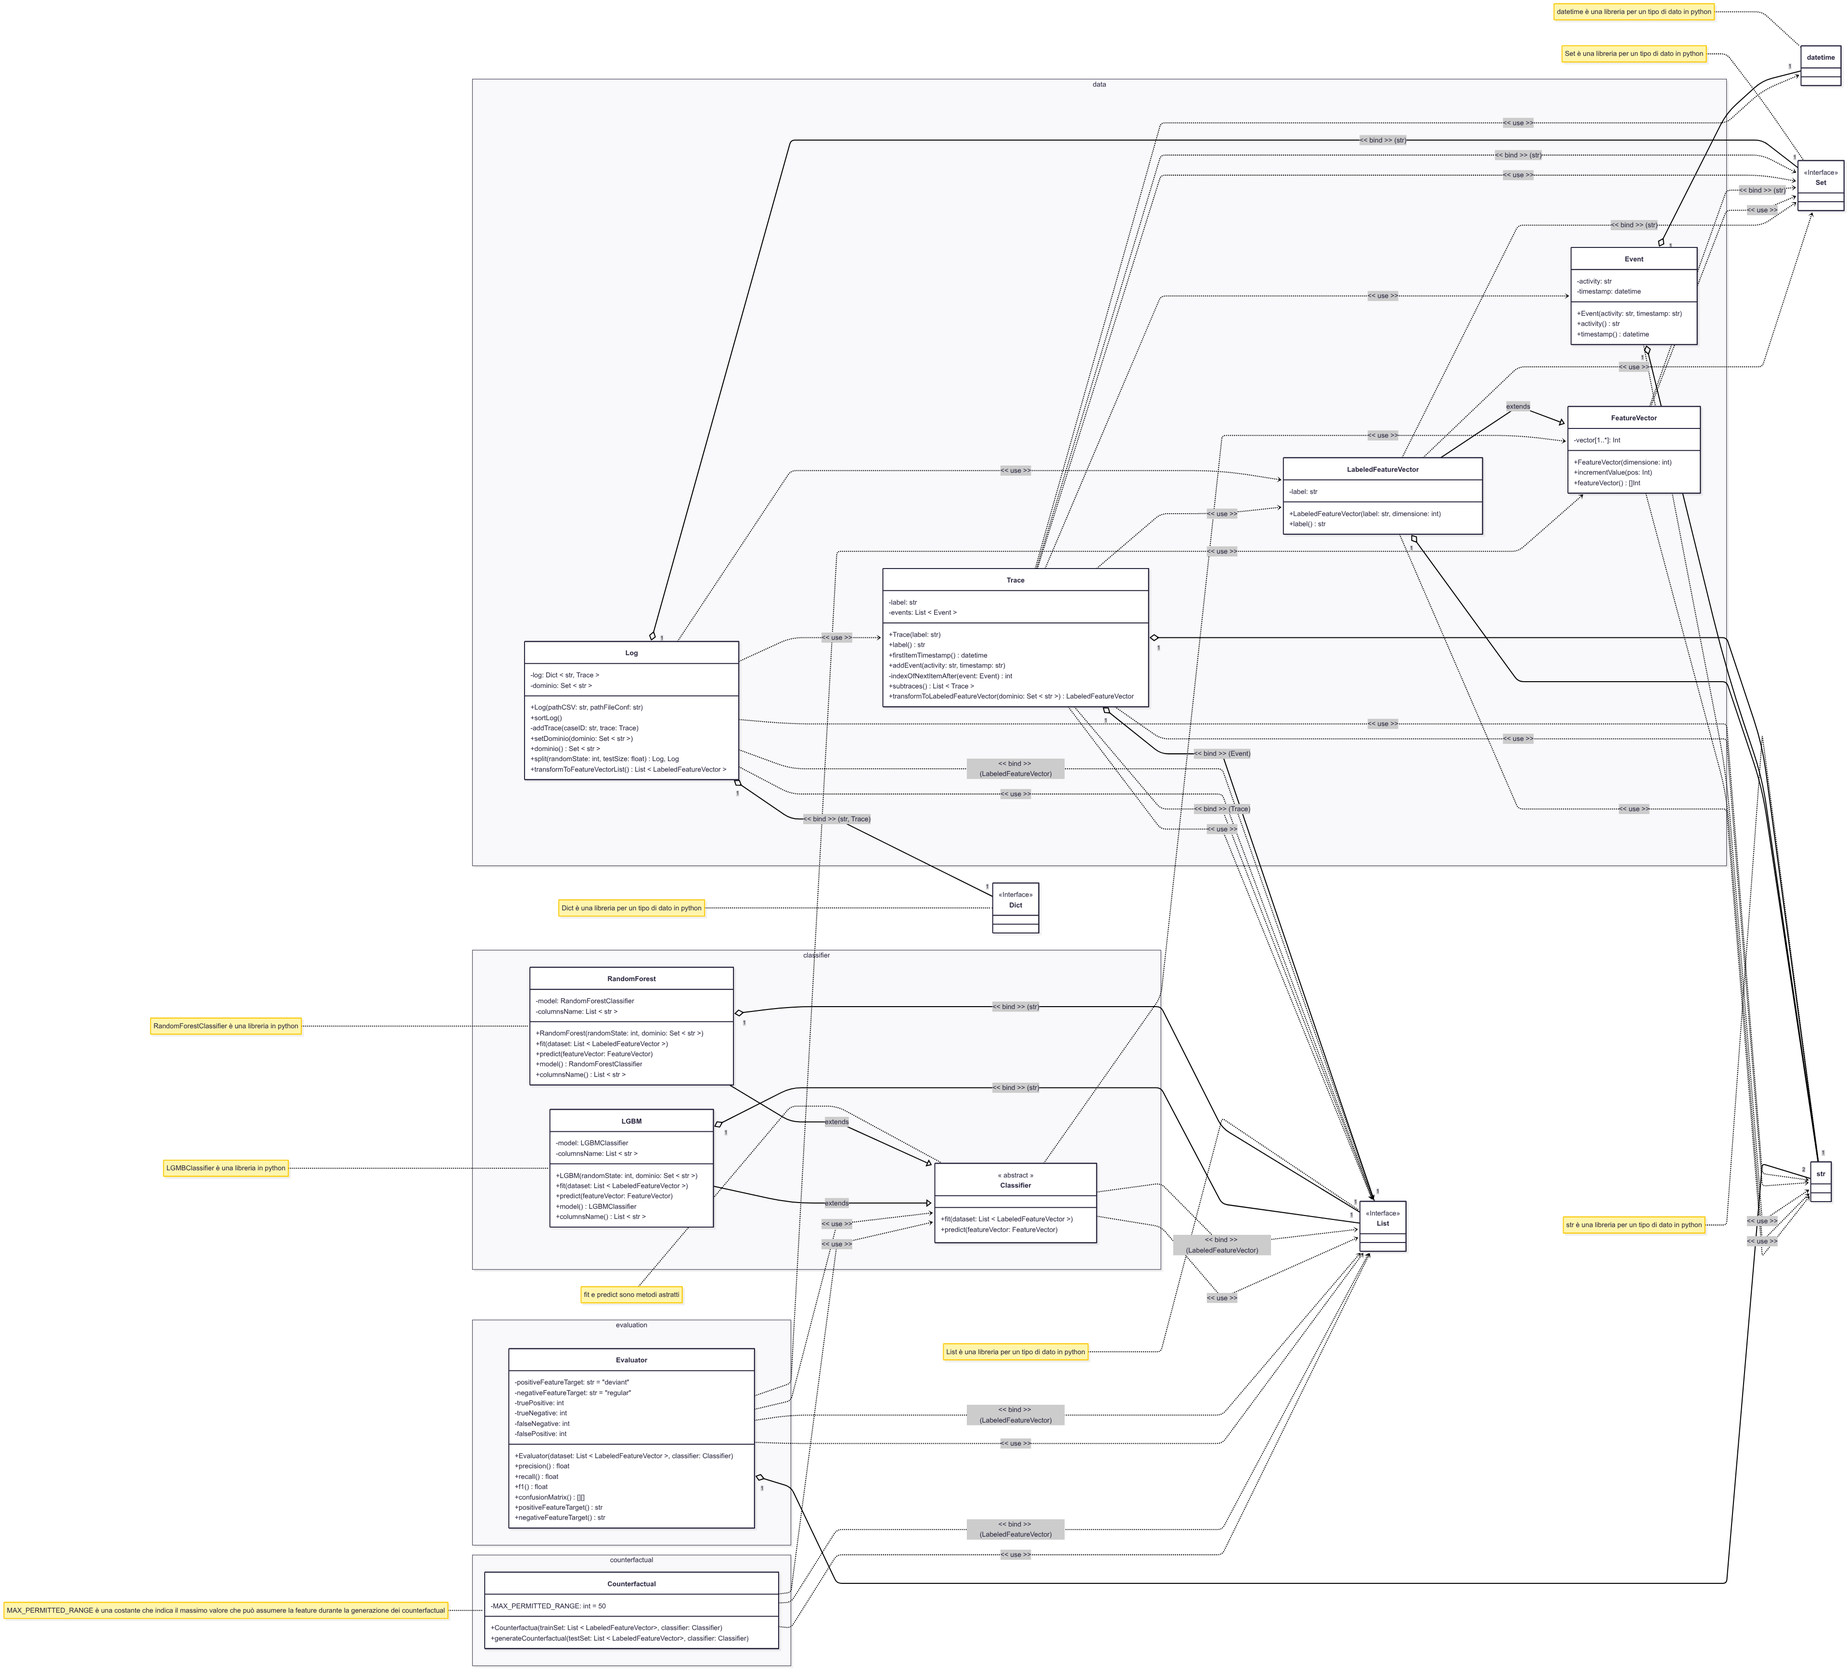
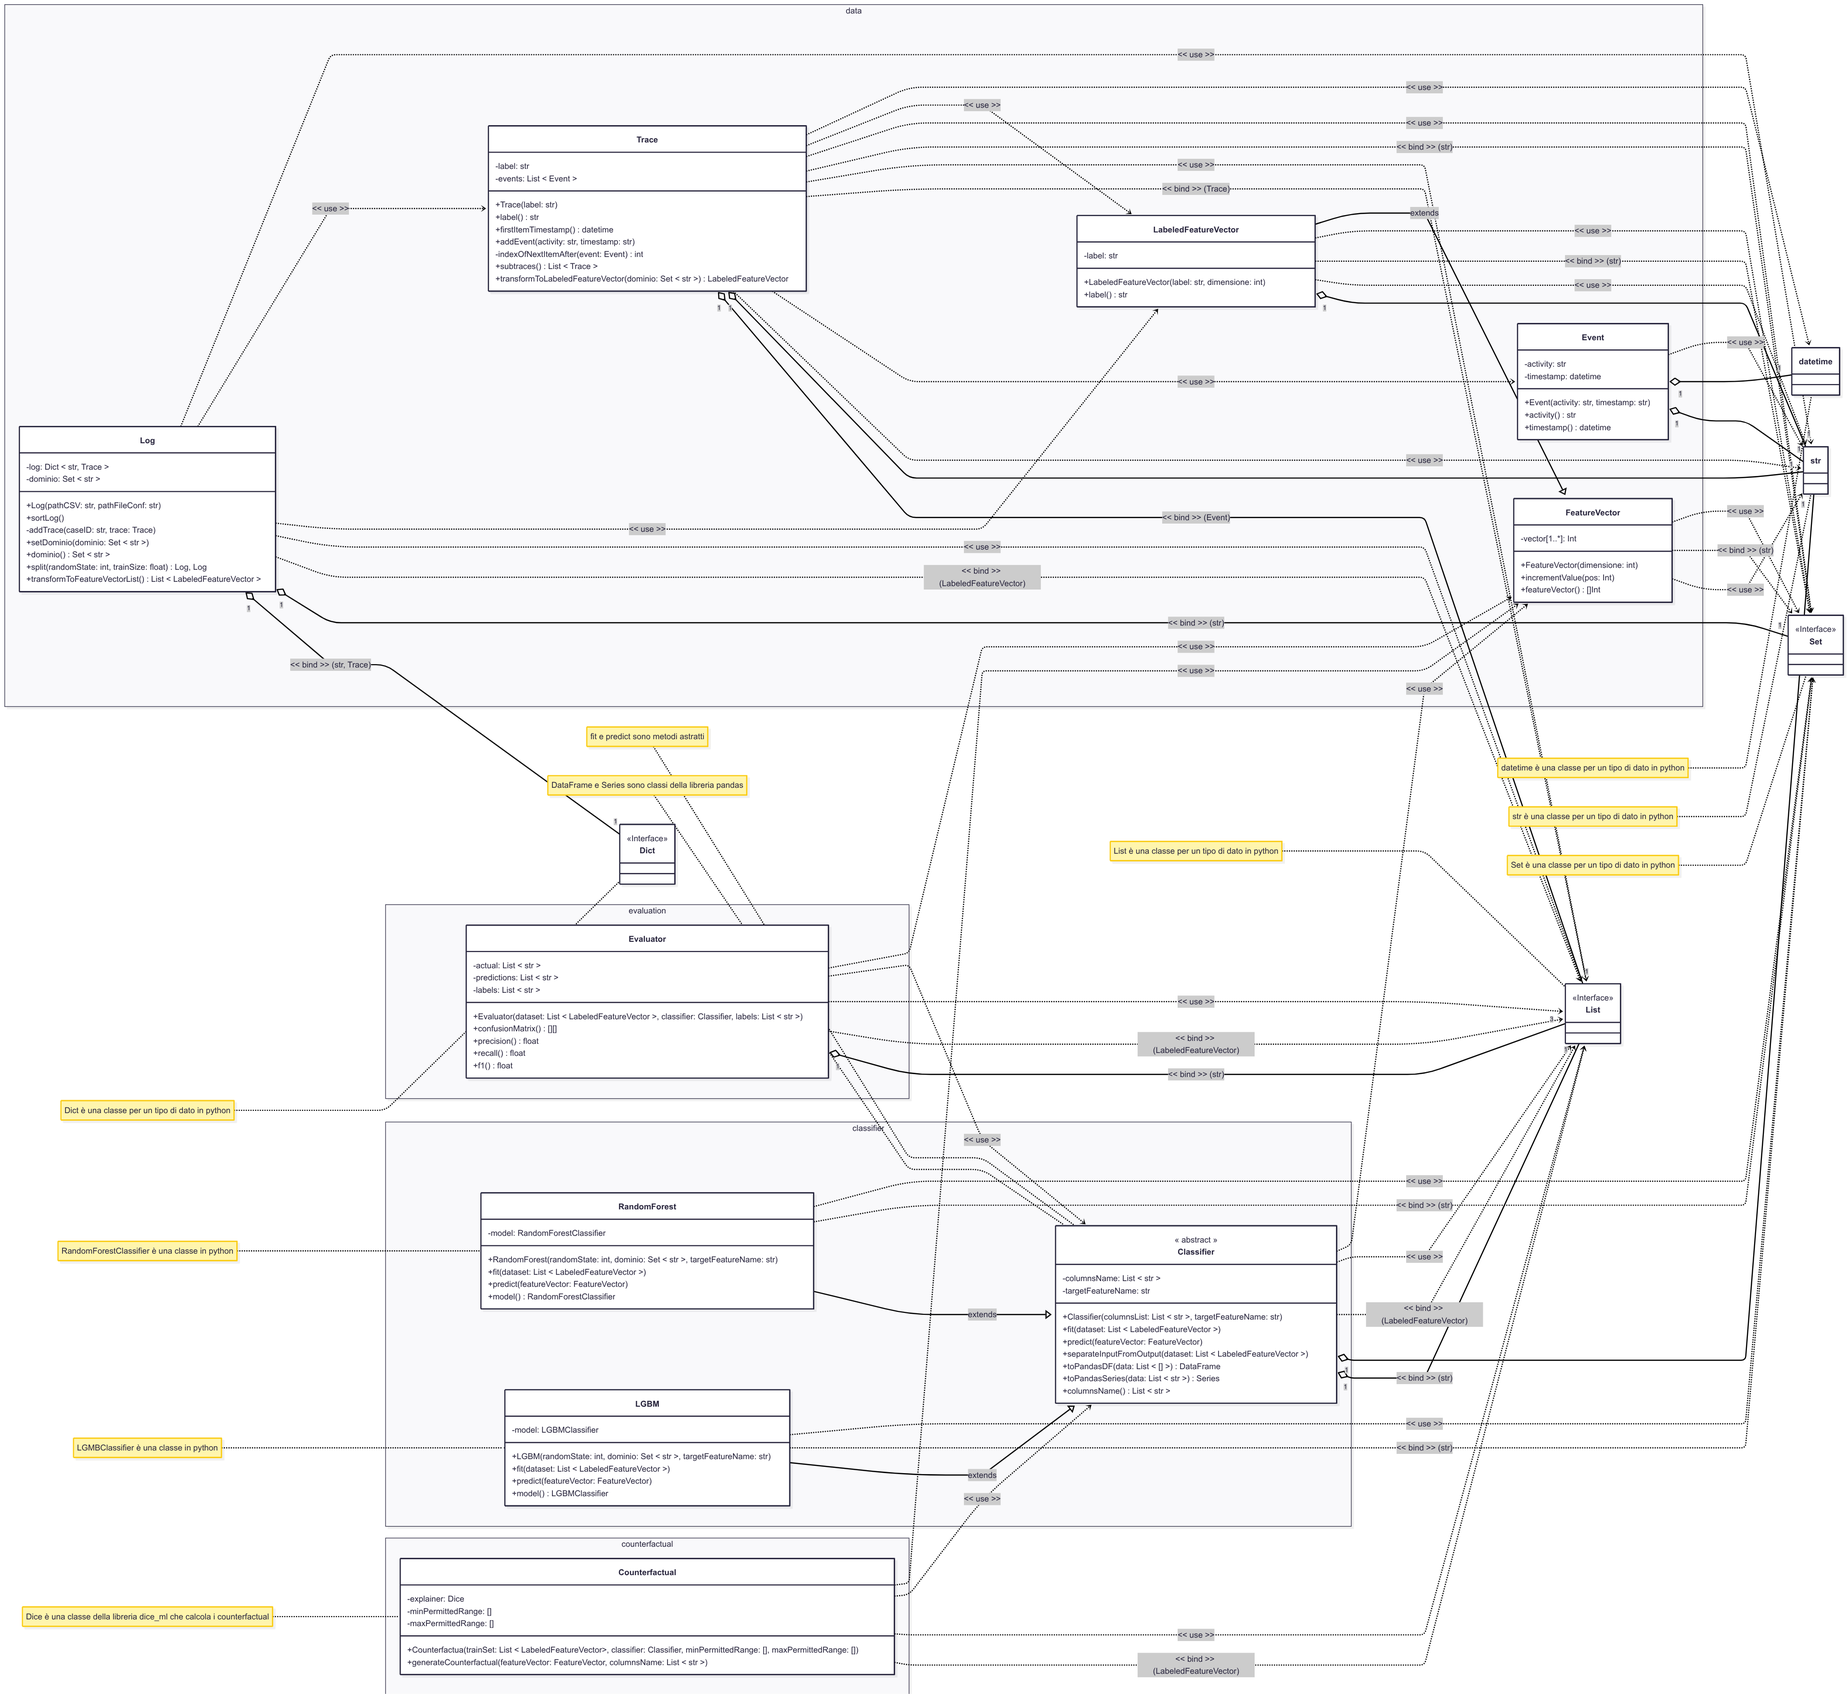
modifiche

diff --git a/counterfactual/counterfactual.py b/counterfactual/counterfactual.py
@@ -4,18 +4,19 @@ import pandas as pd
 from sklearn.preprocessing import LabelEncoder
 
 class Counterfactual:
-    def __init__(self, trainSet, classifier):
+    def __init__(self, trainSet, classifier, minPermittedRange, maxPermittedRange):
+        self._minPermittedRange = minPermittedRange
+        self._maxPermittedRange = maxPermittedRange
         le = LabelEncoder()
-        self._MAX_PERMITTED_RANGE = 50
         x, y = classifier.separateInputFromOutput(trainSet)
         yEncoded = le.fit_transform(y)
-        xdf = pd.DataFrame(x, columns = classifier.columnsName())
-        ys = pd.Series(yEncoded, name = "Label")
+        xdf = classifier.toPandasDF(x)
+        ys = classifier.toPandasSeries(yEncoded)
         dfForDice = pd.concat([xdf, ys], axis = 1)
         diceData = dice_ml.Data(
             dataframe = dfForDice,
             continuous_features = classifier.columnsName(),
-            outcome_name = 'Label'
+            outcome_name = classifier.targetFeatureName()
         )
         model = dice_ml.Model(
             model = classifier.model(),
@@ -23,33 +24,23 @@ class Counterfactual:
         )
         self._exp = dice_ml.Dice(diceData, model, method = 'random')
 
-    def generateCounterfactual(self, testSet, classifier, pathOut, numExamplesToOutput = None):
-        x, y = classifier.separateInputFromOutput(testSet)
-        xdf = pd.DataFrame(x, columns = classifier.columnsName())
-        if numExamplesToOutput is not None:
-            xdf = xdf.head(numExamplesToOutput)
-        allCfsDataframe = []
-        for i in range(len(xdf)):
-            queryInstance = xdf.iloc[i : i + 1] # Estrae una singola riga come DataFrame (formato richiesto da DiCE)
-            currentPermittedRange = {}
-            for feature in classifier.columnsName():
-                currentValue = queryInstance[feature].iloc[0]
-                currentPermittedRange[feature] = [currentValue, self._MAX_PERMITTED_RANGE]
-            cf = self._exp.generate_counterfactuals(
-                queryInstance,
-                total_CFs = 2,
-                desired_class = 'opposite',
-                features_to_vary = classifier.columnsName(),
-                permitted_range = currentPermittedRange
-            )
-            cfDataframe = cf.cf_examples_list[0].final_cfs_df
-            cfDataframe['Type'] = 'Counterfactual'
-            cfDataframe['Query_ID'] = i
-            originalInstanceDf = cf.cf_examples_list[0].test_instance_df
-            originalInstanceDf['Type'] = 'Original'
-            originalInstanceDf['Query_ID'] = i
-            combinedDf = pd.concat([originalInstanceDf, cfDataframe])
-            allCfsDataframe.append(combinedDf)
-        
-        dfToExport = pd.concat(allCfsDataframe, ignore_index = True)
+    def generateCounterfactual(self, featureVector, columnsName, pathOut):
+        xdf = pd.DataFrame(featureVector, columns = columnsName)
+        currentPermittedRange = {}
+        i = 0
+        for feature in columnsName:
+                currentPermittedRange[feature] = [self._minPermittedRange[i], self._maxPermittedRange]
+                i += 1
+        cf = self._exp.generate_counterfactuals(
+            xdf,
+            total_CFs = 3,
+            desired_class = 'opposite',
+            features_to_vary = columnsName,
+            permitted_range = currentPermittedRange
+        )
+        cfDataframe = cf.cf_examples_list[0].final_cfs_df
+        cfDataframe['Type'] = 'Counterfactual'
+        originalInstanceDf = cf.cf_examples_list[0].test_instance_df
+        originalInstanceDf['Type'] = 'Original'
+        dfToExport = pd.concat([originalInstanceDf, cfDataframe])
         dfToExport.to_excel(pathOut, index = False)

diff --git a/evaluation/evaluator.py b/evaluation/evaluator.py
@@ -1,47 +1,28 @@
+from sklearn.metrics import confusion_matrix
+from sklearn.metrics import precision_score
+from sklearn.metrics import recall_score
+from sklearn.metrics import f1_score
+
 class Evaluator:
-    def __init__(self, dataset, classifier):
-        self._positiveFeatureTarget = "deviant"
-        self._negativeFeatureTarget = "regular"
-        self._truePositive = 0
-        self._trueNegative = 0
-        self._falsePositive = 0
-        self._falseNegative = 0
-        x, y = classifier.separateInputFromOutput(dataset)
-        predictions = classifier.predict(x)
-        assert len(y) == len(predictions)
-        for i in range(len(y)):
-            actual = y[i]
-            predict = predictions[i]
-            if actual == self._positiveFeatureTarget:
-                if predict == self._positiveFeatureTarget:
-                    self._truePositive += 1
-                else:
-                    self._falseNegative += 1
-            else:
-                if predict == self._negativeFeatureTarget:
-                    self._trueNegative += 1
-                else:
-                    self._falsePositive += 1            
+    def __init__(self, dataset, classifier, labels):
+        x, self._actual = classifier.separateInputFromOutput(dataset)
+        self._predictions = classifier.predict(x)
+        self._labels = labels
+                  
 
     def confusionMatrix(self):
-        return [
-            [self._trueNegative, self._falsePositive],
-            [self._falseNegative, self._truePositive]
-        ]
+        return confusion_matrix(self._actual, self._predictions, labels = self._labels)
 
     def precision(self):
-        return self._truePositive / (self._falsePositive + self._truePositive)
+        return precision_score(self._actual, self._predictions, average = 'weighted')
     
     def recall(self):
-        return self._truePositive / (self._falseNegative + self._truePositive)
+        return recall_score(self._actual, self._predictions, average = 'weighted')
     
     def f1(self):
-        return 2 * self.precision() * self.recall() / (self.precision() + self.recall())
+        return f1_score(self._actual, self._predictions, average = 'weighted')
     
-    def positiveFeatureTarget(self):
-        return self._positiveFeatureTarget
-    
-    def negativeFeatureTarget(self):
-        return self._negativeFeatureTarget
+    def labels(self):
+        return self._labels
     
     

diff --git a/main.py b/main.py
@@ -16,8 +16,8 @@ randomForest.fit(trainSet)
 lgbm = LGBMClassifier(42, trainSetLog.dominio(), 'Label')
 lgbm.fit(trainSet)
 
-rfEval = Evaluator(testSet, randomForest)
-lgbmEval = Evaluator(testSet, lgbm)
+rfEval = Evaluator(testSet, randomForest, log.labels())
+lgbmEval = Evaluator(testSet, lgbm, log.labels())
 print("precision: ", rfEval.precision(), lgbmEval.precision())
 print("recall: ", rfEval.recall(), lgbmEval.recall())
 print("f1: ", rfEval.f1(), lgbmEval.f1())
@@ -25,8 +25,12 @@ print("f1: ", rfEval.f1(), lgbmEval.f1())
 plotConfusionMatrix(rfEval, "RandomForest")
 exportMetricsToExcel({"Random Forest": rfEval, "LGBM": lgbmEval})
 
-counterfactualForRF = Counterfactual(trainSet, randomForest)
-counterfactualForRF.generateCounterfactual(testSet, randomForest, "statistiche/counterfactualsRandomForest.xlsx", 20)
+minPermittedRange = []
+for val in testSet[0].featureVector():
+    minPermittedRange.append(val)
 
-counterfactualForLGBM = Counterfactual(trainSet, lgbm)
-counterfactualForLGBM.generateCounterfactual(testSet, lgbm, "statistiche/counterfactualsLGBM.xlsx", 20)
+counterfactualForRF = Counterfactual(trainSet, randomForest, minPermittedRange, 50)
+counterfactualForRF.generateCounterfactual([testSet[0].featureVector()], randomForest.columnsName(), "statistiche/counterfactualsRandomForest.xlsx")
+
+counterfactualForLGBM = Counterfactual(trainSet, lgbm, minPermittedRange, 50)
+counterfactualForLGBM.generateCounterfactual([testSet[0].featureVector()], lgbm.columnsName(), "statistiche/counterfactualsLGBM.xlsx")

diff --git a/data/log.py b/data/log.py
@@ -11,6 +11,7 @@ class Log:
     def __init__(self, pathCSV: str = None, pathFileConf: str = None):
         self._log: Dict[str, Trace] = {}
         self._dominio = set()
+        self._labels = set()
         if pathCSV == None and pathFileConf == None:
             return
         # csv = pd.read_csv(pathCSV, delimiter = ";", skiprows = 1, header = None)
@@ -26,6 +27,7 @@ class Log:
                 if row[indiciColonne[0]] not in self._log:
                     self._log[row[indiciColonne[0]]] = Trace(row[indiciColonne[3]])
                 self._dominio.add(row[indiciColonne[1]])
+                self._labels.add(row[indiciColonne[3]])
                 self._log[row[indiciColonne[0]]].add_event(row[indiciColonne[1]], row[indiciColonne[2]])
 
     def sortLog(self):
@@ -39,6 +41,9 @@ class Log:
 
     def dominio(self):
         return self._dominio
+    
+    def labels(self):
+        return list(self._labels)
 
     def split(self, randomState: int, trainSize: float):
         trainSet = Log()

diff --git a/plot.py b/plot.py
@@ -3,7 +3,7 @@ import pandas as pd
 import os
 
 def plotConfusionMatrix(evaluator, classifierName):
-    labels = [evaluator.negativeFeatureTarget(), evaluator.positiveFeatureTarget()]
+    labels = evaluator.labels()
     x = [f"Predicted {i}" for i in labels]
     y = [f"Actual {i}" for i in labels]
     confusionMatrix = evaluator.confusionMatrix()

diff --git a/classifier/classifier.py b/classifier/classifier.py
@@ -32,3 +32,6 @@ class Classifier(ABC):
     
     def columnsName(self):
         return self._columnsName
+    
+    def targetFeatureName(self):
+        return self._targetFeatureName

diff --git a/UML.md b/UML.md
@@ -1,15 +1,16 @@
 ```mermaid
 classDiagram
     direction LR
-    note for datetime "datetime è una libreria per un tipo di dato in python"
-    note for Dict "Dict è una libreria per un tipo di dato in python"
-    note for str "str è una libreria per un tipo di dato in python"
-    note for List "List è una libreria per un tipo di dato in python"
-    note for Set "Set è una libreria per un tipo di dato in python"
-    note for RandomForest "RandomForestClassifier è una libreria in python"
-    note for LGBM "LGMBClassifier è una libreria in python"
+    note for datetime "datetime è una classe per un tipo di dato in python"
+    note for Dict "Dict è una classe per un tipo di dato in python"
+    note for str "str è una classe per un tipo di dato in python"
+    note for List "List è una classe per un tipo di dato in python"
+    note for Set "Set è una classe per un tipo di dato in python"
+    note for RandomForest "RandomForestClassifier è una classe in python"
+    note for LGBM "LGMBClassifier è una classe in python"
     note for Classifier "fit e predict sono metodi astratti"
-    note for Counterfactual "MAX_PERMITTED_RANGE è una costante che indica il massimo valore che può assumere la feature durante la generazione dei counterfactual"
+    note for Classifier "DataFrame e Series sono classi della libreria pandas"
+    note for Counterfactual "Dice è una classe della libreria dice_ml che calcola i counterfactual"
     Log "1" o-- "1" Dict : << bind >> (str, Trace)
     Trace "1" o-- "1" List : << bind >> (Event)
     Trace "1" o-- "1" str
@@ -17,9 +18,9 @@ classDiagram
     Event "1" o-- "1" datetime
     LabeledFeatureVector "1" o-- "1" str
     Log "1" o-- "1" Set : << bind >> (str)
-    Evaluator "1" o-- "2" str
-    RandomForest "1" o-- "1" List : << bind >> (str)
-    LGBM "1" o-- "1" List : << bind >> (str)
+    Evaluator "1" o-- "3" List : << bind >> (str)
+    Classifier "1" o-- "1" List : << bind >> (str)
+    Classifier "1" o-- "1" str
     Log ..> List : << bind >> (LabeledFeatureVector)
     Log ..> List : << use >> 
     Log ..> LabeledFeatureVector : << use >>
@@ -42,6 +43,10 @@ classDiagram
     LabeledFeatureVector --|> FeatureVector : extends
     RandomForest --|> Classifier : extends
     LGBM --|> Classifier : extends
+    LGBM ..> Set : << bind >> (str)
+    LGBM ..> Set : << use >>
+    RandomForest ..> Set : << bind >> (str)
+    RandomForest ..> Set : << use >>
     Classifier ..> List : << bind >> (LabeledFeatureVector)
     Classifier ..> List : << use >> 
     Classifier ..> FeatureVector : << use >> 
@@ -53,6 +58,7 @@ classDiagram
     Counterfactual ..> List : << bind >> (LabeledFeatureVector)
     Counterfactual ..> List : << use >> 
     Counterfactual ..> Classifier : << use >> 
+    Counterfactual ..> FeatureVector : << use >>
 
     namespace data {
         class Event {
@@ -83,7 +89,7 @@ classDiagram
             -addTrace(caseID: str, trace: Trace)
             +setDominio(dominio: Set < str >)
             +dominio() Set < str >
-            +split(randomState: int, testSize: float) Log, Log
+            +split(randomState: int, trainSize: float) Log, Log
             +transformToFeatureVectorList() List < LabeledFeatureVector >
         }
 
@@ -105,54 +111,55 @@ classDiagram
     namespace classifier {
         class Classifier {
             << abstract >>
+            -columnsName: List < str >
+            -targetFeatureName: str
+            +Classifier(columnsList: List < str >, targetFeatureName: str)
             +fit(dataset: List < LabeledFeatureVector >)
             +predict(featureVector: FeatureVector)
+            +separateInputFromOutput(dataset: List < LabeledFeatureVector >)
+            +toPandasDF(data: List < [] >) DataFrame
+            +toPandasSeries(data: List < str >) Series
+            +columnsName() List < str >
         }
 
         class RandomForest {
             -model: RandomForestClassifier
-            -columnsName: List < str >
-            +RandomForest(randomState: int, dominio: Set < str >)
+            +RandomForest(randomState: int, dominio: Set < str >, targetFeatureName: str)
             +fit(dataset: List < LabeledFeatureVector >)
             +predict(featureVector: FeatureVector)
             +model() RandomForestClassifier
-            +columnsName() List < str >
+            
         }
 
         class LGBM {
             -model: LGBMClassifier
-            -columnsName: List < str >
-            +LGBM(randomState: int, dominio: Set < str >)
+            +LGBM(randomState: int, dominio: Set < str >, targetFeatureName: str)
             +fit(dataset: List < LabeledFeatureVector >)
             +predict(featureVector: FeatureVector)
             +model() LGBMClassifier
-            +columnsName() List < str >
         }
     }
 
     namespace evaluation {
         class Evaluator {
-            -positiveFeatureTarget: str = "deviant"
-            -negativeFeatureTarget: str = "regular"
-            -truePositive: int
-            -trueNegative: int
-            -falseNegative: int
-            -falsePositive: int
-            +Evaluator(dataset: List < LabeledFeatureVector >, classifier: Classifier)
+            -actual: List < str >
+            -predictions: List < str >
+            -labels: List < str >
+            +Evaluator(dataset: List < LabeledFeatureVector >, classifier: Classifier, labels: List < str >)
+            +confusionMatrix() [][]
             +precision() float
             +recall() float
             +f1() float
-            +confusionMatrix() [][]
-            +positiveFeatureTarget() str
-            +negativeFeatureTarget() str
         }
     }
 
     namespace counterfactual {
         class Counterfactual {
-            -MAX_PERMITTED_RANGE: int = 50
-            +Counterfactua(trainSet: List < LabeledFeatureVector>, classifier: Classifier)
-            +generateCounterfactual(testSet: List < LabeledFeatureVector>, classifier: Classifier)
+            -explainer: Dice
+            -minPermittedRange: []
+            -maxPermittedRange: []
+            +Counterfactua(trainSet: List < LabeledFeatureVector>, classifier: Classifier, minPermittedRange: [], maxPermittedRange: [])
+            +generateCounterfactual(featureVector: FeatureVector, columnsName: List < str >)
         }
     }
 
